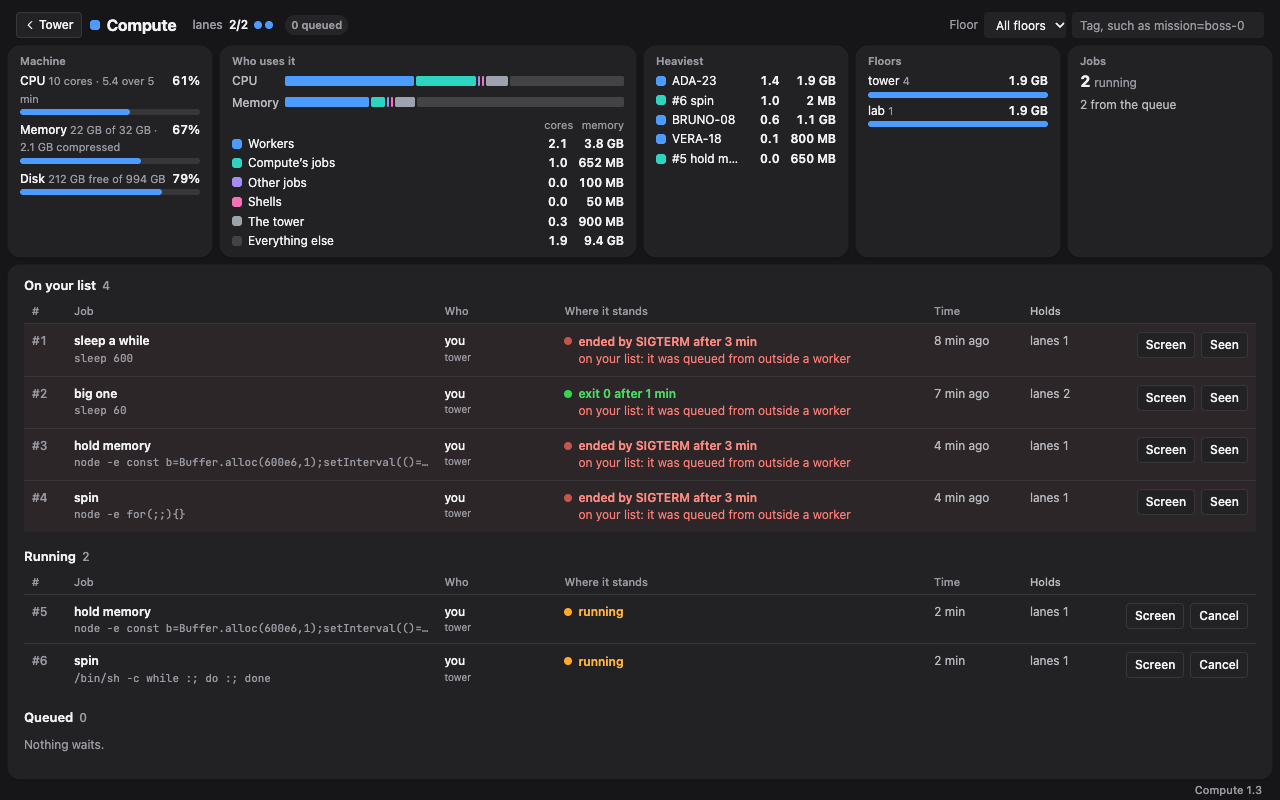
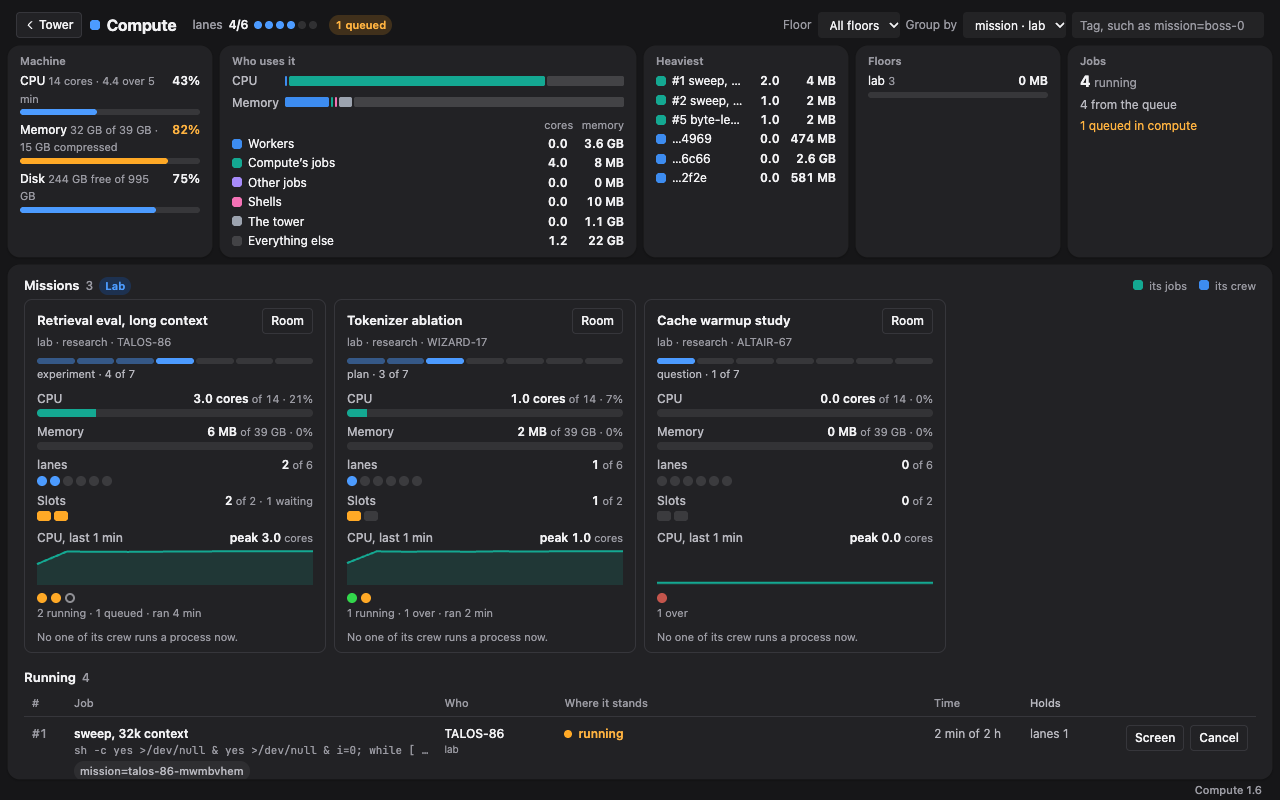
README: new pictures of the Compute page, with the lab's missions

diff --git a/README.md b/README.md
@@ -113,7 +113,10 @@ withdrawn one grey.
 
 | Dark | Light |
 | --- | --- |
-| ![The Compute page, dark](docs/shots/page-dark.png) | ![The Compute page, light](docs/shots/page-light.png) |
+| ![The Compute page, dark: three lab missions as cards, over the running jobs](docs/shots/page-dark.png) | ![The Compute page, light: three lab missions as cards, over the running jobs](docs/shots/page-light.png) |
+
+With the lab running: each mission's phase, its CPU and memory against the machine's, its lanes and cap slots, its CPU
+over the last minutes and a dot per job.
 
 ![A job's live screen at the page's foot](docs/shots/screen.png)
 
